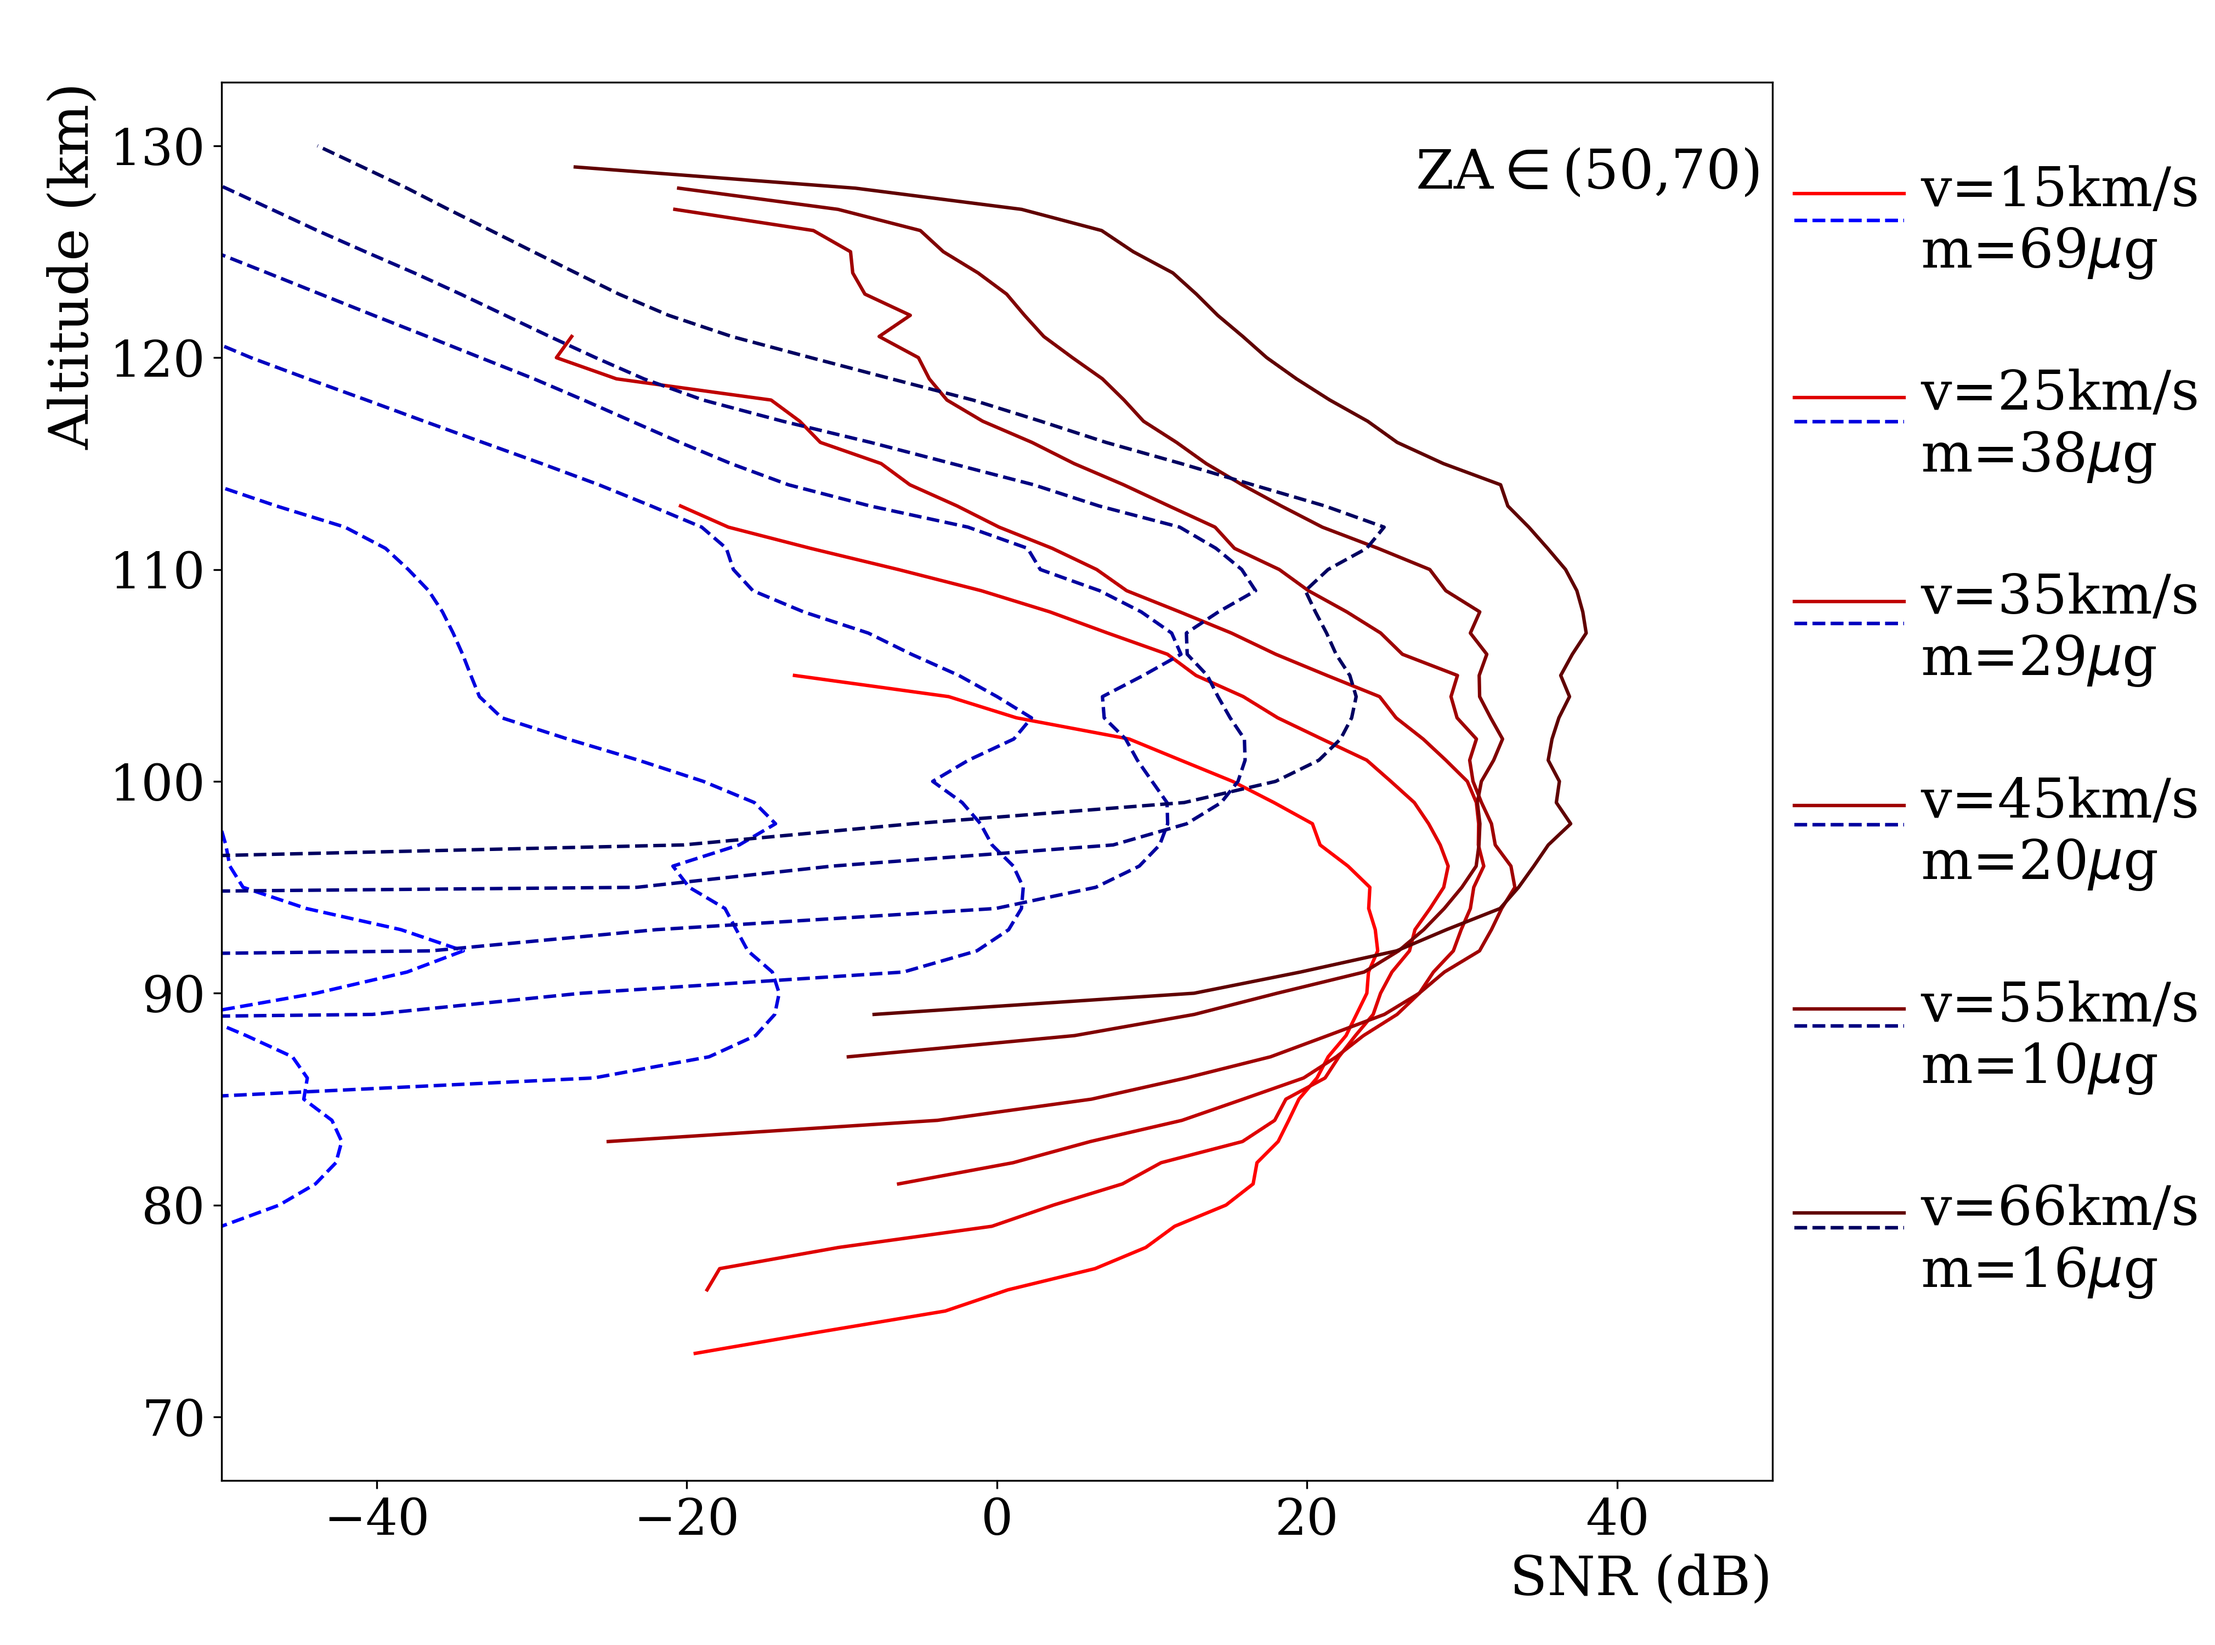
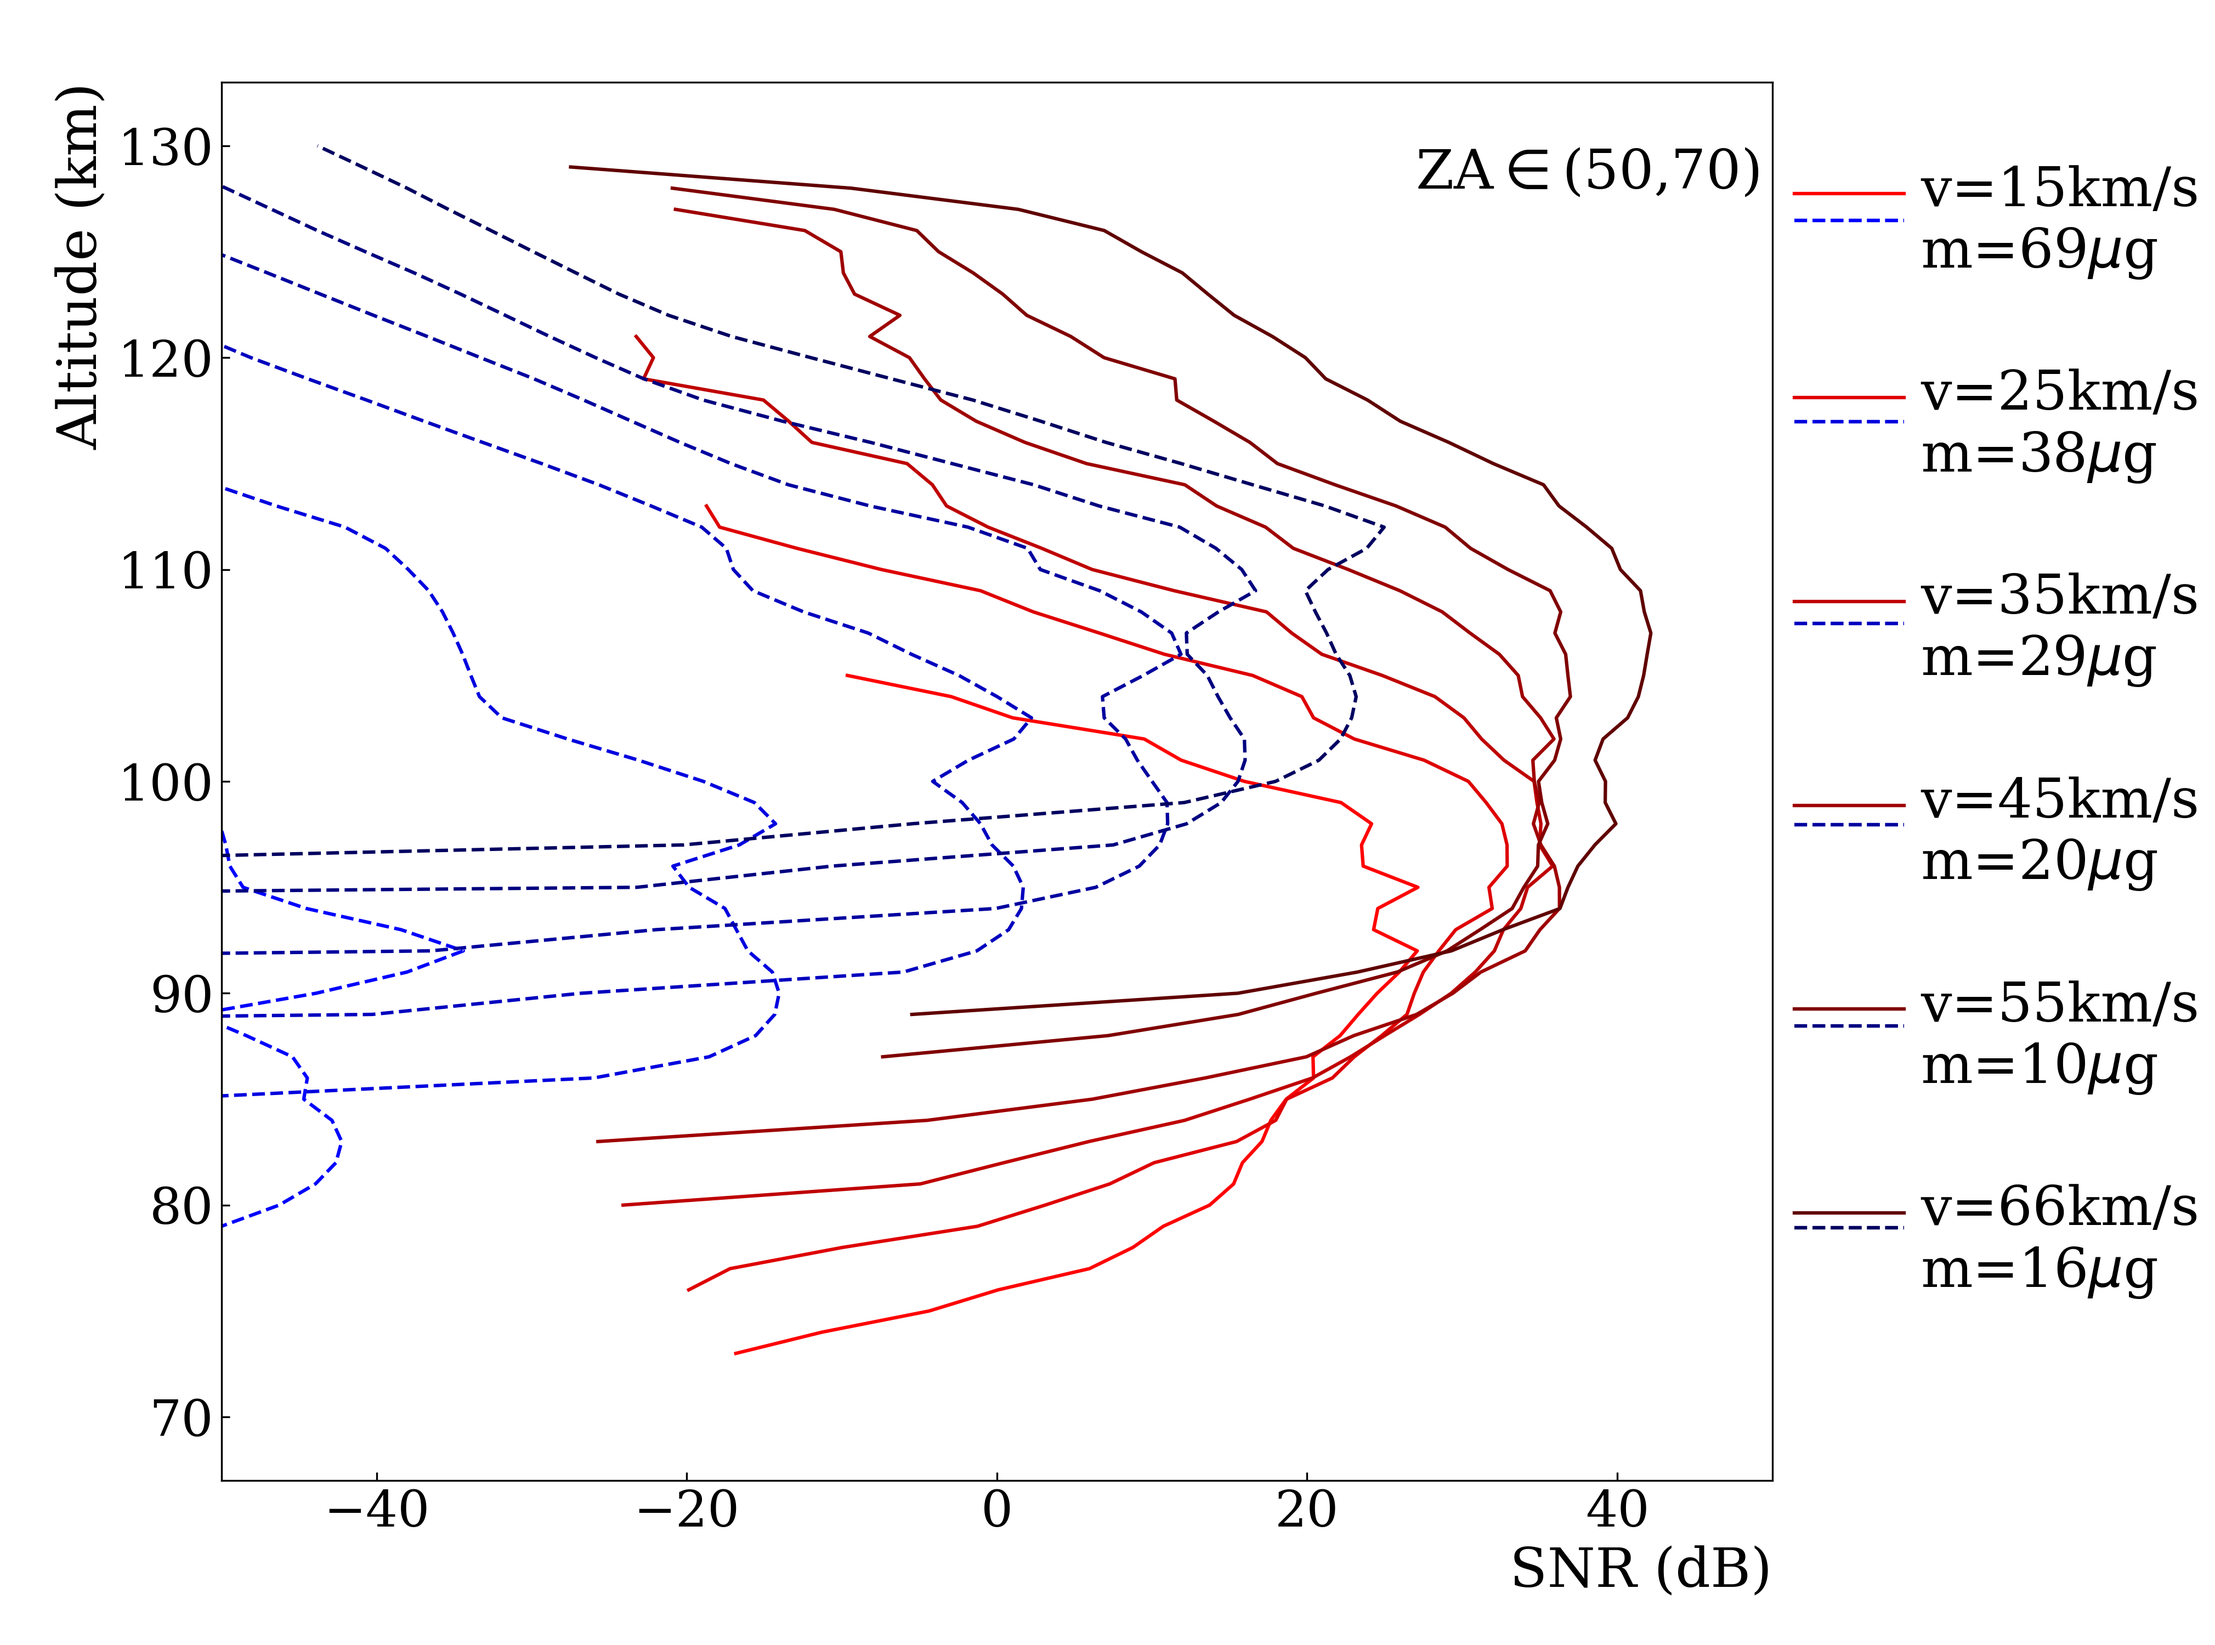
asdf

diff --git a/compare.py b/compare.py
@@ -34,14 +34,15 @@ drop_error = mlines.Line2D([],[],color=c_d, linestyle='solid',markersize=8,linew
 
 
 
-path = '/home/hakon/Documents/meteor_fork/hakon/master/dl_analysed/new_profiles/snr10_anem0.05_c0.5/'
+path = '/home/hakon/Documents/meteor_fork/hakon/master/dl_analysed/new_profiles/USE_snr0_anem100_c0.5/'
 abmod_files = glob.glob('/home/hakon/Documents/abmod/runs/run_ 1*.txt')
 
 m_add = 0
 files = glob.glob(path + "*.h5")
-files.remove('/home/hakon/Documents/meteor_fork/hakon/master/dl_analysed/new_profiles/snr10_anem0.05_c0.5/snr_za_0_30.h5')
-files.remove('/home/hakon/Documents/meteor_fork/hakon/master/dl_analysed/new_profiles/snr10_anem0.05_c0.5/snr_za_30_60.h5')
-files.remove('/home/hakon/Documents/meteor_fork/hakon/master/dl_analysed/new_profiles/snr10_anem0.05_c0.5/snr_za_60_90.h5')
+print(len(files))
+#files.remove('/home/hakon/Documents/meteor_fork/hakon/master/dl_analysed/new_profiles/snr10_anem0.05_c0.5/snr_za_0_30.h5')
+#files.remove('/home/hakon/Documents/meteor_fork/hakon/master/dl_analysed/new_profiles/snr10_anem0.05_c0.5/snr_za_30_60.h5')
+#files.remove('/home/hakon/Documents/meteor_fork/hakon/master/dl_analysed/new_profiles/snr10_anem0.05_c0.5/snr_za_60_90.h5')
 
 
 def compare_snr(za_idx, vel_idx, files, mass='500', uncertainty='', plot=True, combine_drop=False, compare_drops=False):
@@ -544,4 +545,6 @@ def compare_vels():
         plt.text(27,128,f'ZA$\in$({zas[zi]},{zas[zi+1]})')
         plt.savefig(f'/home/hakon/Documents/abmod/new_imgs/compare_all_za{zas[zi]}',dpi=300)
         plt.close()
+
+compare_all()
 compare_vels()
